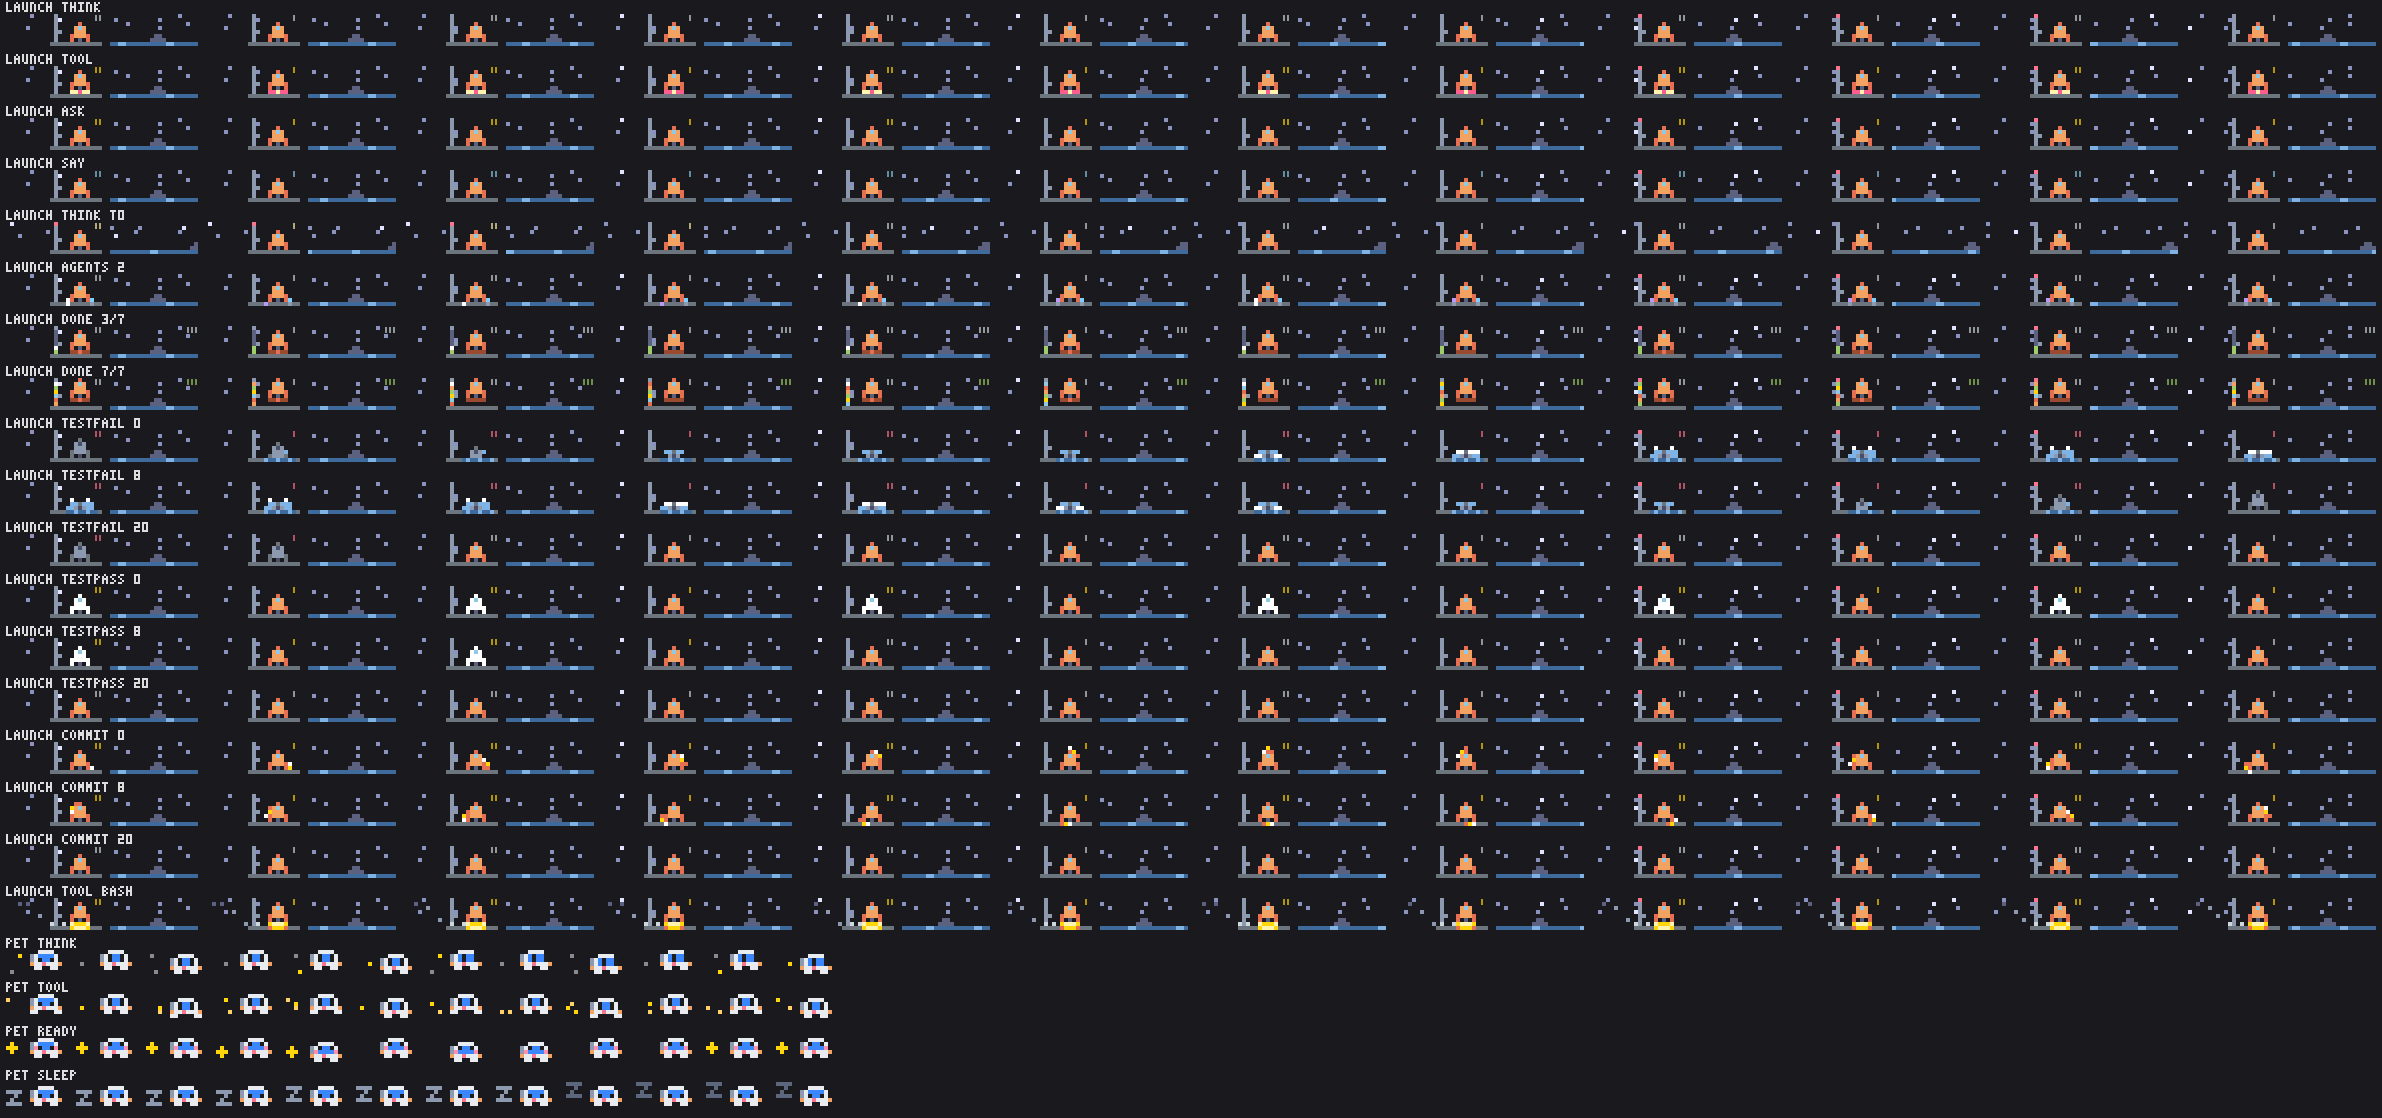
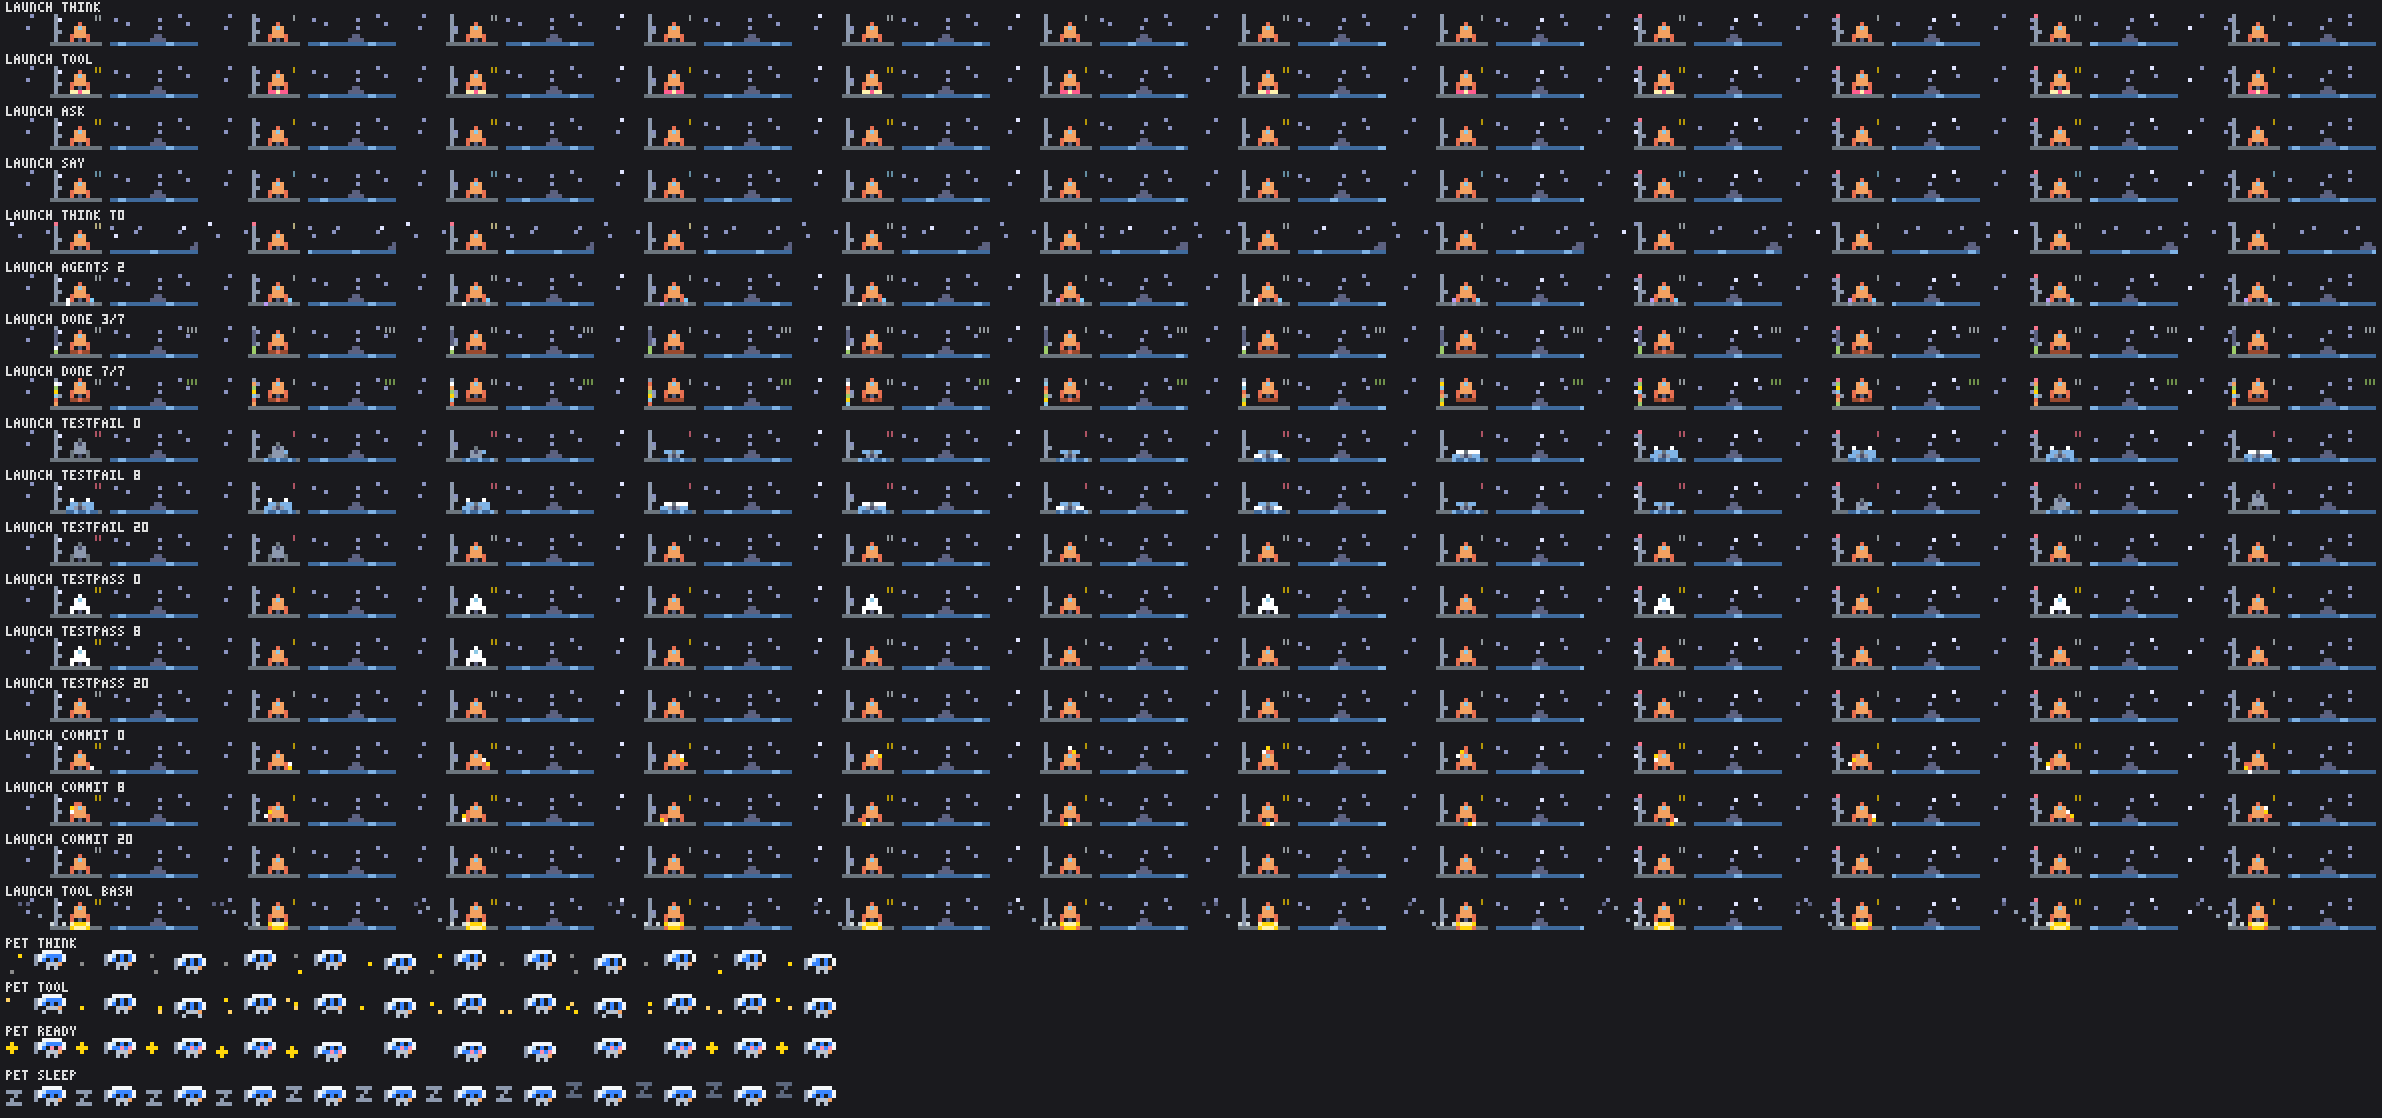
showtime: launch — an astronaut that reads as one, the countdown holding on ✦, the lift waiting for ignition (review fixes); the pet is a big round white helmet over a much narrower grey suit, its blue visor framing the eyes with a pale glint at its corner, a grey pack on one side only, one orange g

Changed region(s): [[0.0, 0.8515, 0.3728, 0.9428], [0.0, 0.9732, 0.3728, 1.0]]

diff --git a/showtime/hooks/themes/launch.ts b/showtime/hooks/themes/launch.ts
@@ -4,11 +4,12 @@
 // (floor-scaled to six, `done` green, the newest flashing, rolling colours at 100%) under a beacon, a
 // `done/total` readout, the sea at the right under low clouds, drifting stars. Its altitude tracks
 // `done/total`, climbing a pixel a frame as a task lands. A sign over its shoulder reads the act: the
-// countdown (3, 2, 1, ✦, twelve frames each), `?`, notes, the tool's mark. In a tool it hovers a pixel
-// up on a flame in the tool's colour flickering on two frames; bash is a full burn with smoke rolling
-// off left. Subagents are boosters by the fins (three at most), the newest separating in place with a
-// flash and a jolt. testFail: the hull greys and drops into water under the pad, ten frames of spray,
-// back by frame 22; testPass: the hull flashes white; commit: a satellite rings it for twenty frames.
+// countdown (3, 2, 1, twelve frames each, then ✦ held), `?`, notes, the tool's mark. In a tool the
+// engines catch on the pad and it lifts a pixel on a flame in the tool's colour flickering on two
+// frames; bash is a full burn with smoke rolling off left. Subagents are boosters by the fins (three at
+// most), the newest separating in place with a flash and a jolt. testFail: the hull greys and drops
+// into water under the pad, ten frames of spray, back by frame 22; testPass: the hull flashes white;
+// commit: a satellite rings it for twenty frames.
 //
 // Motion rules: stars, clouds and smoke are lone cells going left, off the rocket's columns and the
 // sign; still things touch or stand two apart; the flame and spray only recolour or hug the hull.
@@ -108,11 +109,11 @@ const ROCKET_GREY = { N: PAD, H: STEEL, W: GREY_DARK, E: GREY_DARK }
 /** The nose's lift for `done` of `total`: none at 0, the top at 100%. */
 const markOf = (done: number, total: number) => (total > 0 ? Math.round(LIFT_MAX * Math.min(done, total) / total) : 0)
 
-/** The nose's lift: a pixel a frame from the last mark to this one, a pixel up in a tool; on testFail
+/** The nose's lift: a pixel a frame from the last mark to this one, a pixel up in a tool once lit; on testFail
  * a pixel a frame down to SINK under the pad, held through the splash, then back up a pixel a frame. */
 function altitudeOf(s: Signals): number {
   let a = Math.min(markOf(s.done, s.total), markOf(Math.max(0, s.done - 1), s.total) + s.doneAge)
-  if (s.act === 'tool') a = Math.min(LIFT_MAX, a + 1)
+  if (s.act === 'tool' && s.actAge >= IGNITE_FRAMES) a = Math.min(LIFT_MAX, a + 1)
   if (s.news !== 'testFail' || s.newsAge >= FAIL_FRAMES) return a
   const rise = s.newsAge - DROP_FRAMES - SPLASH_FRAMES
   return rise < 0 ? Math.max(-SINK, a - s.newsAge) : Math.min(a, rise - SINK)
@@ -170,10 +171,10 @@ function smoke(cv: Canvas, t: number, rl: number, burnAge: number): void {
   }
 }
 
-/** The engines: in a tool a row of flame in the tool's colour (a grey sputter first), core and edges
- * swapping every frame, boosters lit too; bash adds a row and lights the pad. Aloft idle: embers. */
+/** The engines: in a tool a row of flame in the tool's colour (a grey sputter on the pad first), core and
+ * edges swapping every frame, boosters lit too; bash adds a row and lights the pad. Aloft idle: embers. */
 function flame(cv: Canvas, t: number, s: Signals, rl: number, fy: number, age: number, n: number): void {
-  if (fy >= PAD_Y) return
+  if (fy > PAD_Y || (fy === PAD_Y && s.act !== 'tool')) return
   if (s.act !== 'tool') {
     for (let dx = 0; dx < ROCKET_W; dx++) plot(cv, rl + dx, fy, dx === 2 && mod(t, 4) < 2 ? TRIM : EMBER)
     return
@@ -232,7 +233,8 @@ function sign(s: Signals, t: number, age: number, isFail: boolean, isPass: boole
   if (s.act === 'tool') return { text: TOOL_SIGN[s.tool ?? 'other'] + tail, c: GOLD }
   if (s.act === 'ask') return { text: frame(['?·', '?', '·?', '?'], t), c: GOLD }
   if (s.act === 'say') return { text: frame(['♪♫', '♫', '♫♪', '♪'], t), c: WINDOW }
-  if (s.act === 'think') return { text: frame(COUNTDOWN, Math.floor(s.actAge / COUNT_FRAMES)) + tail, c: SIGN }
+  const count = COUNTDOWN[Math.min(COUNTDOWN.length - 1, Math.floor(s.actAge / COUNT_FRAMES))]!
+  if (s.act === 'think') return { text: count + tail, c: SIGN }
   return { text: frame(['..', '.', '...', '.'], t), c: SIGN }
 }
 
@@ -275,16 +277,16 @@ export function launchScene(t: number, w: number, s: Signals): Grid {
   return g
 }
 
-/** An astronaut: a white helmet with a blue visor and a pack, a suit with a red badge and orange gloves. */
+/** An astronaut: a big round helmet, eyes on a blue visor with a glint, a pack on one side, a much narrower
+ * grey suit with an orange glove, two thin legs close together. No mouth: the visor hides it. */
 export const PET: PetArt = {
-  body: ['....WWWW....', '..PWVVVVW...', '..PWVVVVW...', '..OWWRWWWO..', '...WW..WW...'],
-  step: ['....WWWW....', '..PWVVVVW...', '..PWVVVVW...', '..OWWRWWWO..', '..WW....WW..'],
-  colors: { W: '#e8ecf1', V: '#3a86ff', P: STEEL, R: RED, O: HULL },
-  eyes: [4, 7],
+  body: ['.....WWWWW..', '...PWGVVVVW.', '...PWVVVVVW.', '...P..SSSO..', '......S.S...'],
+  step: ['.....WWWWW..', '...PWGVVVVW.', '...PWVVVVVW.', '...P..SSSO..', '.....S...S..'],
+  colors: { W: '#f4f6f8', V: '#3a86ff', G: '#bde0ff', P: STEEL, S: '#b8c2d0', O: HULL },
+  eyes: [6, 8],
   eyeRow: 1,
   eye: '#1d1d1d',
   lid: '#3a86ff',
-  mouth: [5, 2],
   blush: '#ff8fab',
   spark: GOLD,
 }
